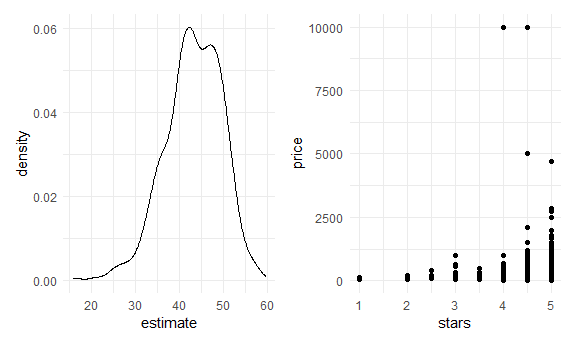
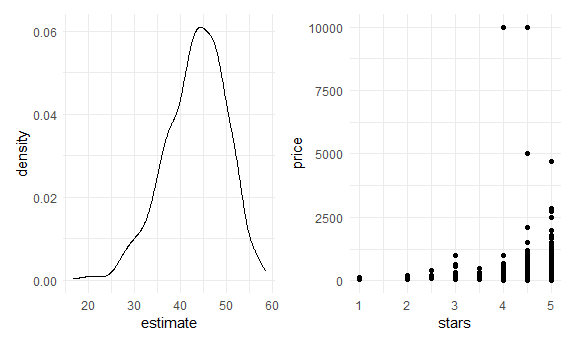
Update descriptions and comments

diff --git a/bootstrapping.md b/bootstrapping.md
@@ -48,15 +48,15 @@ sim_df_nonconst %>%
     ## # A tibble: 2 x 5
     ##   term        estimate std.error statistic   p.value
     ##   <chr>          <dbl>     <dbl>     <dbl>     <dbl>
-    ## 1 (Intercept)     1.93    0.102       18.9 7.97e- 50
-    ## 2 x               3.05    0.0715      42.7 2.51e-116
+    ## 1 (Intercept)     2.05    0.112       18.4 2.78e- 48
+    ## 2 x               2.88    0.0771      37.3 9.23e-104
 
 Implement a procedure so it will gives better standard error
 
 ## Let’s try to use the bootstrap for inference
 
 ``` r
-## Get different regression sample everytime you run the code.
+## Get different regression sample every time you run the code. Draw a sample with replacement and analyze using a linear model. In the end will get the actual distribution of the intercept and the slope 
 bootstrap_sample = 
   sim_df_nonconst %>% 
   sample_frac(size = 1, replace = TRUE) %>% 
@@ -71,7 +71,7 @@ lm(y~x, data = bootstrap_sample)
     ## 
     ## Coefficients:
     ## (Intercept)            x  
-    ##       1.745        3.188
+    ##       2.062        2.864
 
 Let’s write a function..
 
@@ -117,6 +117,7 @@ bootstrap_results %>%
 ``` r
 ## normally distributed plot
 
+
 lm(y~x, data = sim_df_nonconst) %>% 
   broom::tidy()
 ```
@@ -124,8 +125,8 @@ lm(y~x, data = sim_df_nonconst) %>%
     ## # A tibble: 2 x 5
     ##   term        estimate std.error statistic   p.value
     ##   <chr>          <dbl>     <dbl>     <dbl>     <dbl>
-    ## 1 (Intercept)     1.93    0.102       18.9 7.97e- 50
-    ## 2 x               3.05    0.0715      42.7 2.51e-116
+    ## 1 (Intercept)     2.05    0.112       18.4 2.78e- 48
+    ## 2 x               2.88    0.0771      37.3 9.23e-104
 
 ``` r
 ## estimate coefficient would be like under repeatedly sampling, what we think the right ans is.
@@ -141,8 +142,8 @@ bootstrap_results %>%
     ## # A tibble: 2 x 2
     ##   term            se
     ##   <chr>        <dbl>
-    ## 1 (Intercept) 0.0818
-    ## 2 x           0.0966
+    ## 1 (Intercept) 0.0674
+    ## 2 x           0.0937
 
 ## Use `modelr`
 
@@ -194,7 +195,7 @@ nyc_airbnb %>%
 <img src="bootstrapping_files/figure-gfm/unnamed-chunk-10-1.png" width="90%" />
 
 ``` r
-## bootstrapping sample 1000 with replacement, linear model -- price against stars for each sample
+## bootstrapping sample 1000 with replacement of the same sizes --> fit linear model of price against stars for each bootstrap sample --> given all those results map across everything and extract just the coefficients 
 
 airbnb_bootstrap_results = 
   nyc_airbnb %>% 
@@ -214,6 +215,8 @@ ggp_star_est =
   ggplot(aes(estimate)) + 
   geom_density()
 
+## not so normally distributed 
+## If the sample size is large enough, even though the data is strange, will be able to get some asymptotic distribution 
 
 ggp_scatter = 
   nyc_airbnb %>% 
